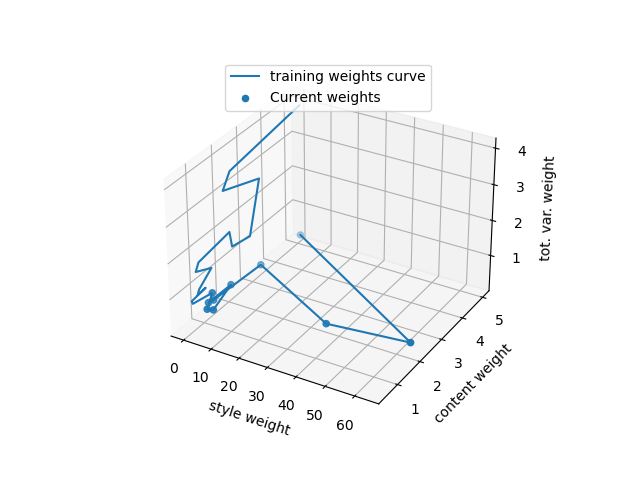
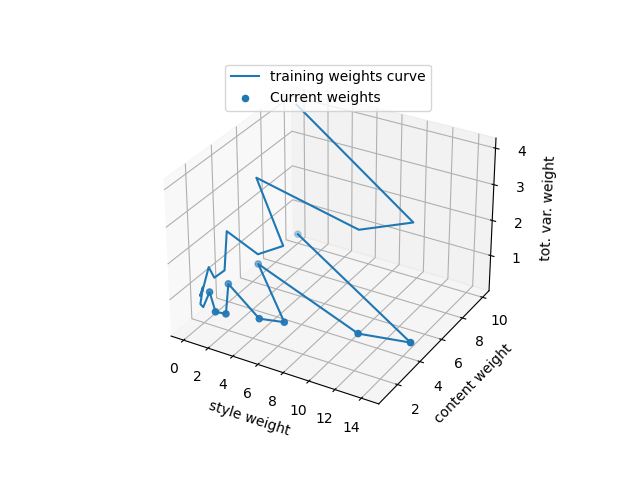
changed again input gif

diff --git a/create_gif_params_inputs.py b/create_gif_params_inputs.py
@@ -9,8 +9,8 @@ from PIL import Image
 
 
 def convert_parametric(x, y, z):
-    sw_l = [(3**s) for s in x]
-    cw_l = [abs(s) for s in y]
+    sw_l = [s**2 for s in x]
+    cw_l = [abs(s*2) for s in y]
     tvw_l = [2**s for s in z]
     return sw_l, cw_l, tvw_l
 
